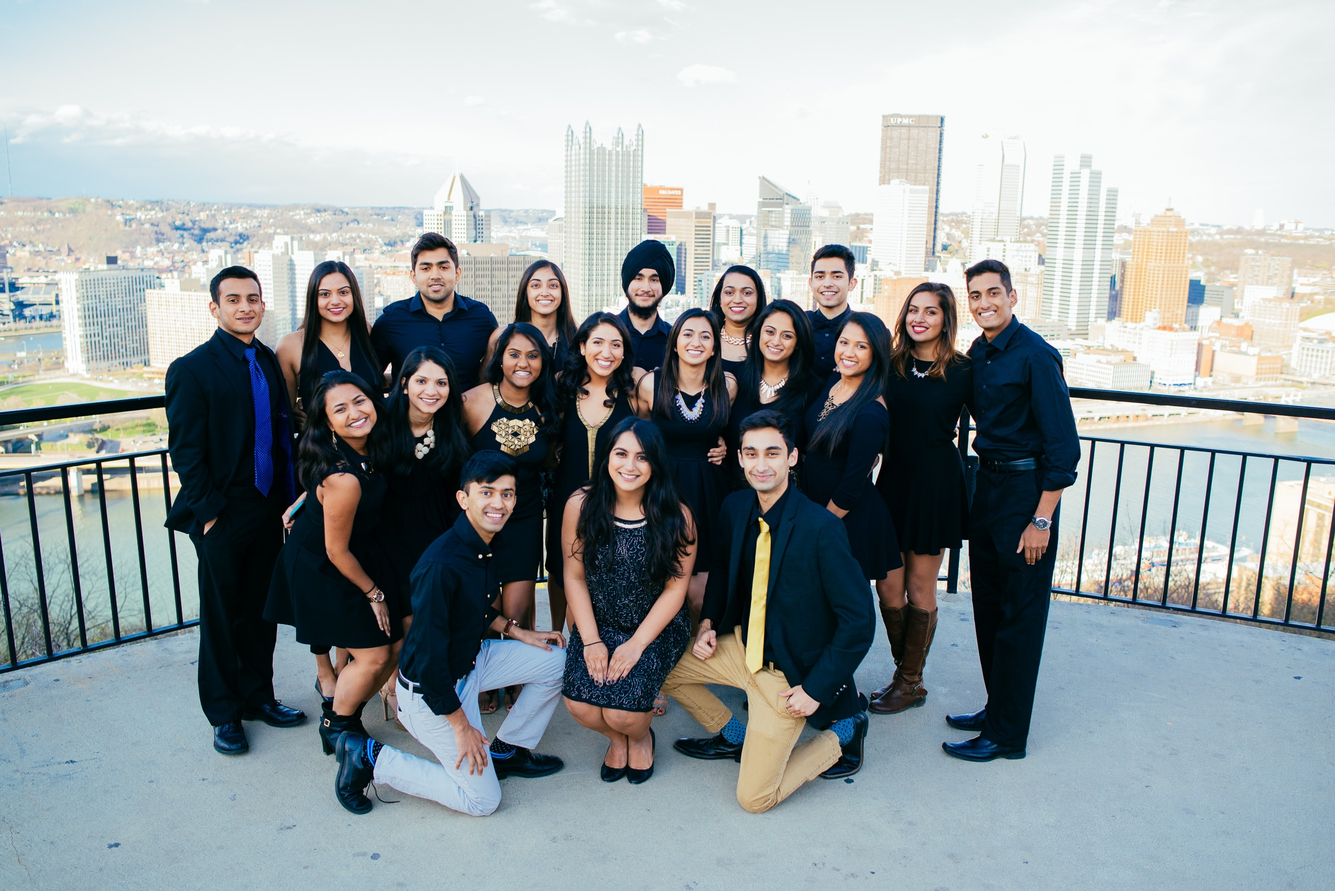
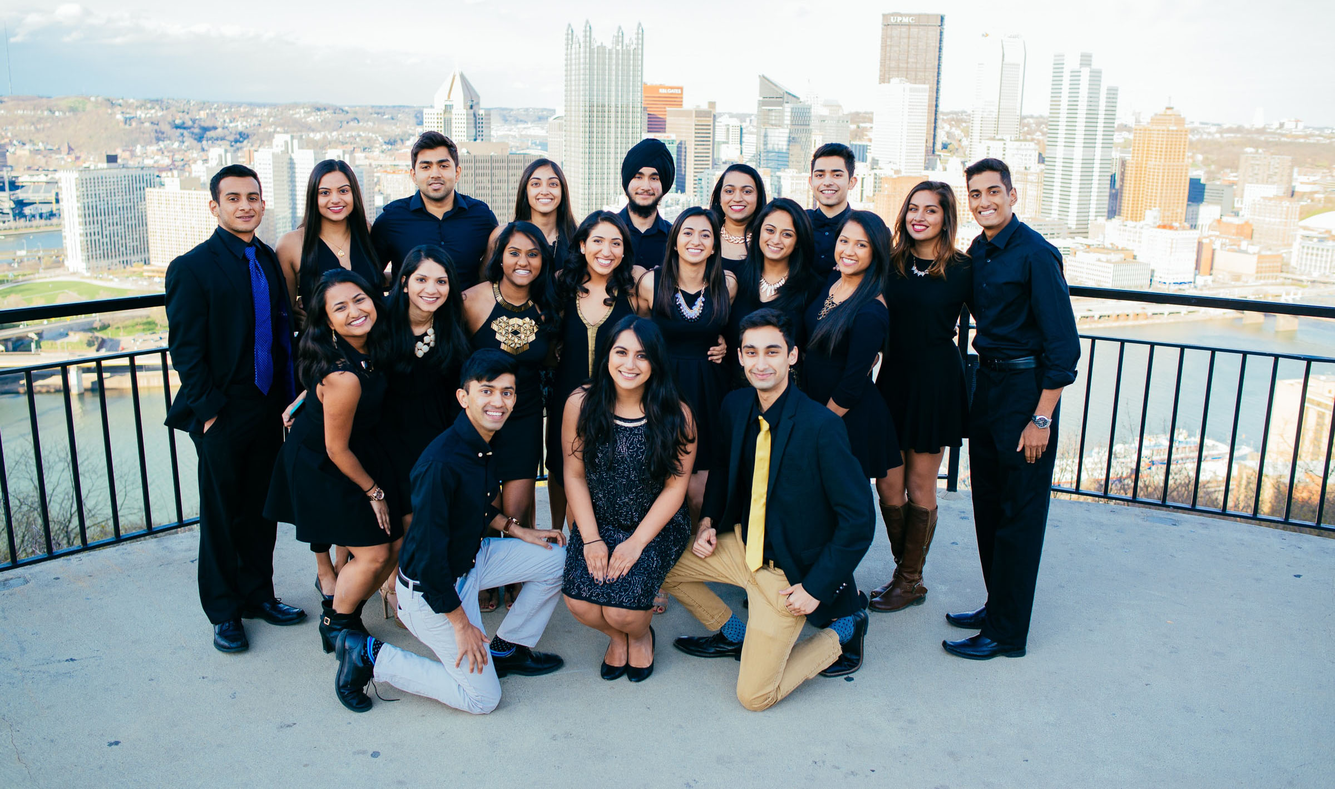
bibx_board

diff --git a/BIBX/board.html b/BIBX/board.html
@@ -26,9 +26,9 @@
 
     <body>        
         <!--Here's the navbar-->
-        <div id="header_wrapper" style="position:relative;">
+        <div id="header_wrapper">
             <center>
-                <div id="header" class="clearfix" style="background-color:#141414;">
+                <div id="header" style="background-color:#141414; height:36px">
                     <ul>
                         <li><a href="history.html">History</a></li>
                         <li><a href="board.html">Board</a></li>
@@ -42,12 +42,11 @@
             </center>
         </div>
         
-        <div id="board_header">
-            <div id="cover_ellipse"></div>
+        <div id="board_header" style="z-index:0;">
+            <div id="cover_ellipse" style="background-color:#141414; z-index:0;"></div>
             <img src="images/board_min.jpg">
+            <h1>Meet our Team</h1>
         </div>
-        
-        <img src="images/pittsburgh_promise.svg" width="500px" height="500px" style="z-index:500">
         
     </body>
 </html>

diff --git a/BIBX/css/styles.css b/BIBX/css/styles.css
@@ -258,6 +258,7 @@ src: url("Proxima_Nova_Regular.otf") format("opentype");
 }
 
 #board_header{
+    position:relative;
     z-index:0;
 }
 #board_header img{
@@ -442,4 +443,13 @@ body {
     .tile {
         height:30vh;
     }
+}
+
+#board_header h1 {
+    color:white;
+    position:absolute;
+    bottom:25%;
+    width:100%;
+    text-align: center;
+    font-family: 'Gotham'
 }

diff --git a/BIBX/index.html b/BIBX/index.html
@@ -10,8 +10,8 @@
         <script type="text/javascript">
         $(function(){
             countdown(year,month,day,hour,minute);
-            $("#cover").fadeTo(2500,0);
-            setTimeout('$("#cover").hide()', 2500);
+            $("#cover").fadeTo(2000,0);
+            setTimeout('$("#cover").hide()', 1500);
         });
         </script>
         
